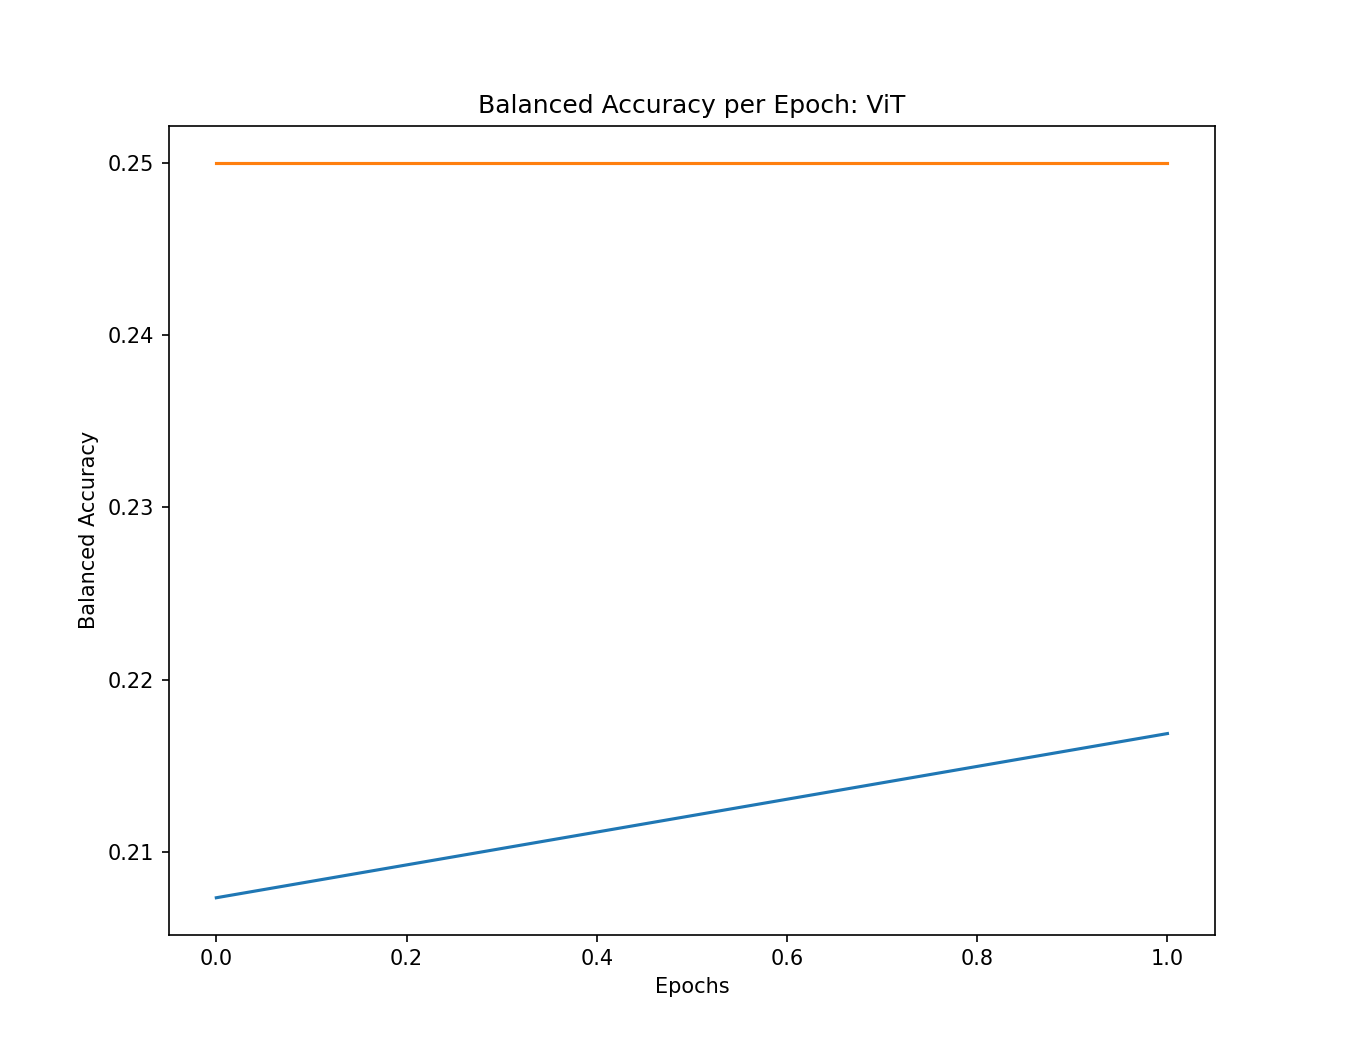
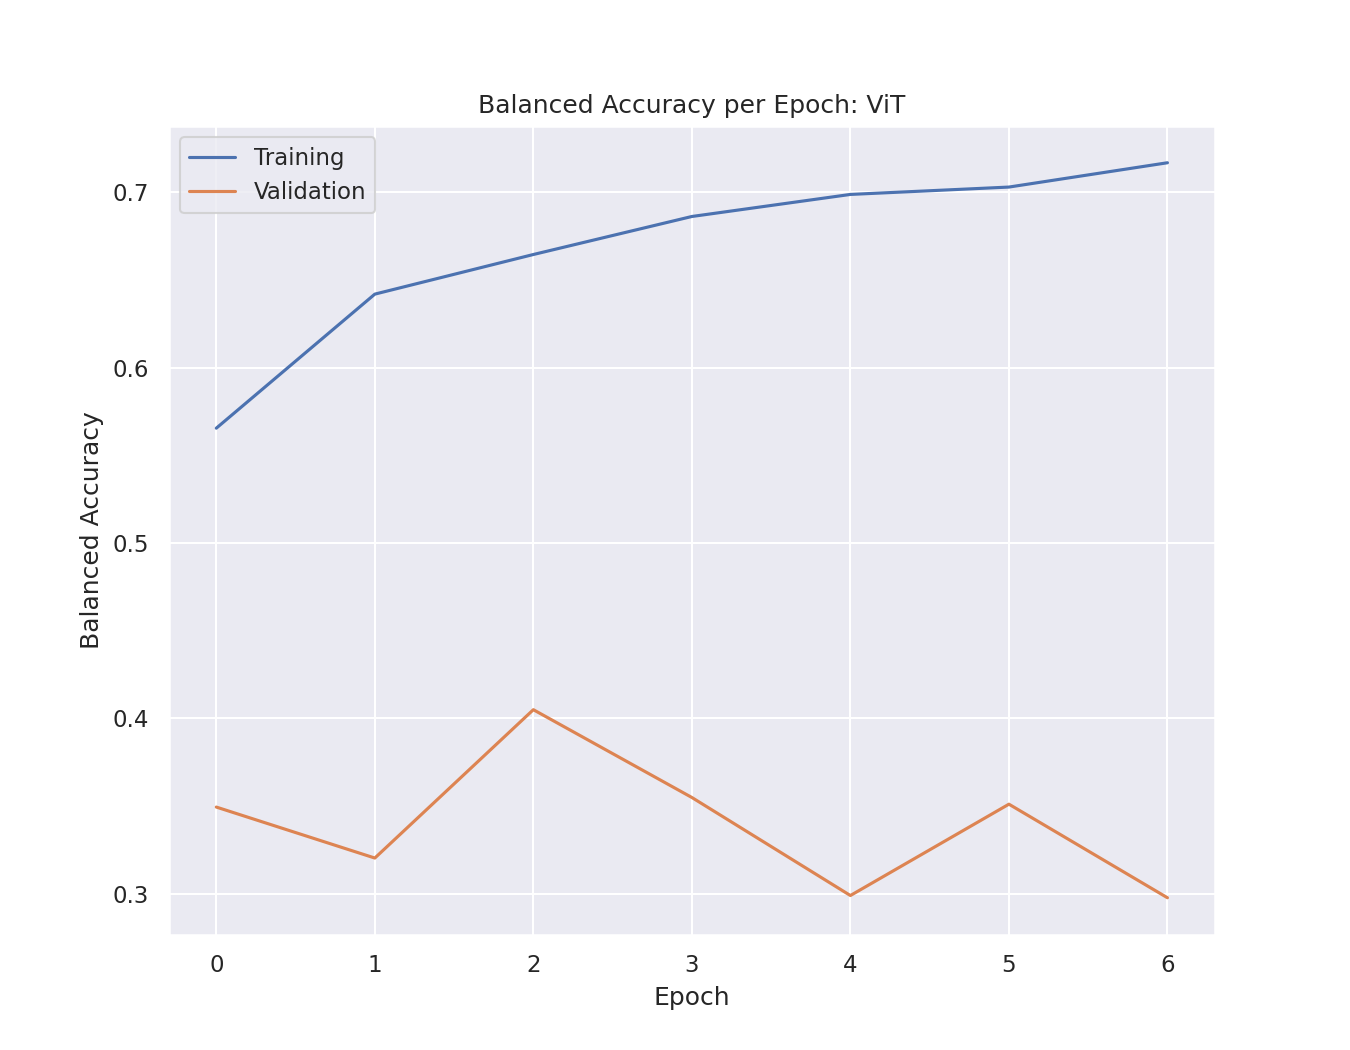
MaxViT progress

diff --git a/src/train.py b/src/train.py
@@ -15,8 +15,8 @@ def load_model(model_name, num_classes, from_path=None, n_layers_to_freeze=1):
             'weight_decay': 0.0001
         }
     elif model_name=="ConvNeXt":
-        num_epochs = 2
-        batch_size = 2
+        num_epochs = 7
+        batch_size = 16
         img_size = 512
         n_layers_to_freeze = 1
         # model = load_convnext_model(num_classes, from_path)
@@ -24,23 +24,23 @@ def load_model(model_name, num_classes, from_path=None, n_layers_to_freeze=1):
         model = timm.create_model('convnextv2_huge.fcmae_ft_in22k_in1k_512', pretrained=True, num_classes=4)
         hyperparameters = {
             'learning_rate': 0.001,
-            'beta1': 0.9,
-            'beta2': 0.999,
-            'weight_decay': 0.1
-        }
-    elif model_name=="ViT":
-        num_epochs = 3
-        batch_size = 16
-        img_size = 512
-        n_layers_to_freeze = 1
-        model = timm.create_model('maxvit_base_tf_512.in21k_ft_in1k', pretrained=True, num_classes=4)
-        # model = load_vit_model(num_classes, from_path)
-        # model = freeze_layers(model, n_layers_to_freeze)
-        hyperparameters = {
-            'learning_rate': 0.001,
-            'beta1': 0.9,
+            'beta1': 0.8,
             'beta2': 0.999,
             'weight_decay': 0.0001
+        }
+    elif model_name=="MaxViT":
+        num_epochs = 7
+        batch_size = 16
+        img_size = 512
+        n_layers_to_freeze = 2
+        model = timm.create_model('maxvit_base_tf_512.in21k_ft_in1k', pretrained=True, num_classes=4)
+        # model = load_vit_model(num_classes, from_path)
+        model = freeze_layers(model, n_layers_to_freeze)
+        hyperparameters = {
+            'learning_rate': 0.0005,
+            'beta1': 0.8,
+            'beta2': 0.999,
+            'weight_decay': 0.006
         }
         
     elif model_name=="Swin":
@@ -169,6 +169,9 @@ def train_model(model, criterion, optimizer, train_loader, val_loader, test_load
         # Track hyperparameters and run metadata
         config={
             "learning_rate": optimizer.param_groups[-1]['lr'],
+            "weight_decay": optimizer.param_groups[-1]['weight_decay'],
+            "beta1": optimizer.param_groups[-1]['betas'][0],
+            "beta2": optimizer.param_groups[-1]['betas'][1],
             "epochs": num_epochs,
             "batch_size:": batch_size,
             "n_augment": n_augment,
@@ -234,6 +237,9 @@ def train_model(model, criterion, optimizer, train_loader, val_loader, test_load
 
         print(f'Train Loss: {train_epoch_loss:.4f}  |  Train ROC AUC: {train_roc_auc:.4f}  |  Train Balanced Accuracy: {train_bal_acc:.4f}')
 
+        conf_mat_train = pd.DataFrame(confusion_matrix(all_train_labels, all_train_preds), index=unique_labels, columns=unique_labels)
+        print('\nConfusion Matrix (Train):\n',conf_mat_train,'\n',sep='')
+
         # Validation
         model.eval()
         running_loss = 0.0
@@ -266,6 +272,9 @@ def train_model(model, criterion, optimizer, train_loader, val_loader, test_load
         val_balanced_accuracy_scores.append(val_bal_acc)
 
         print(f'Validation Loss: {val_epoch_loss:.4f}  |  Validation ROC AUC: {val_roc_auc:.4f}  |  Validation Balanced Accuracy: {val_bal_acc:.4f}')
+
+        conf_mat = pd.DataFrame(confusion_matrix(all_labels, all_preds), index=unique_labels, columns=unique_labels)
+        print('\nConfusion Matrix (Val):\n',conf_mat,'\n',sep='')
 
         wandb.log({"train_loss":train_epoch_loss, "val_loss":val_epoch_loss, "roc_auc_train":train_roc_auc, "roc_auc_val":val_roc_auc, "balanced_accuracy_train":train_bal_acc, "balanced_accuracy_val":val_bal_acc})
     
@@ -477,7 +486,8 @@ def evaluate_model(model, test_loader, device, unique_labels, model_name, save_f
     for metric, value in metrics.items():
         print(f"{metric.capitalize()}: {value:.3f}")
 
-    classification_report(all_labels, all_preds)#, labels=unique_labels)
+    print("unique labels\n",unique_labels)
+    print('\n',classification_report(all_labels, all_preds, target_names=unique_labels),'\n',sep='')
 
     if save_fig is not None:
     
@@ -486,6 +496,7 @@ def evaluate_model(model, test_loader, device, unique_labels, model_name, save_f
         plot_roc_curve(np.eye(len(unique_labels))[all_labels], all_probs, len(unique_labels), unique_labels, save_fig, model_name)
     
     else:
+        
         conf_mat = pd.DataFrame(confusion_matrix(all_labels,all_preds), index=unique_labels, columns=unique_labels)
         print('\nConfusion Matrix:\n',conf_mat,'\n',sep='')
     

diff --git a/src/main.py b/src/main.py
@@ -9,7 +9,7 @@ def fine_tuning(model_name, verbose, device):
     # Read dataset
     df = read_dataset(dataset_path)
 
-    n_augment = 14
+    n_augment = 4
     num_classes = 4
 
     model, hyperparameters, num_epochs, batch_size, img_size, n_layers_to_freeze = load_model(model_name, num_classes)
@@ -26,12 +26,12 @@ def fine_tuning(model_name, verbose, device):
         print("\nInput image shape:",image.shape,"\n")
 
 
-        # summary(model=model, 
-        #     input_size=(batch_size, image.shape[0], image.shape[1], image.shape[2]),
-        #     col_names=["input_size", "output_size", "num_params", "trainable"],
-        #     col_width=20,
-        #     row_settings=["var_names"]
-        # )
+        summary(model=model, 
+            input_size=(batch_size, image.shape[0], image.shape[1], image.shape[2]),
+            col_names=["input_size", "output_size", "num_params", "trainable"],
+            col_width=20,
+            row_settings=["var_names"]
+        )
     
     print(f"\nTRAINING\n")
 

diff --git a/src/hyperparameter_tuning.py b/src/hyperparameter_tuning.py
@@ -13,7 +13,7 @@ def hyperparameter_tuning(model_name, verbose, device, num_trials):
     n_augment_values = [random.randint(0, 14) for _ in range(num_trials)]
     if model_name=="ConvNeXt":
         n_freeze_values = [random.randint(0, 2) for _ in range(num_trials)]
-    elif model_name=="ViT":
+    elif model_name=="MaxViT":
         n_freeze_values = [random.randint(0, 3) for _ in range(num_trials)]
     elif model_name=="Swin":
         n_freeze_values = [random.randint(0, 5) for _ in range(num_trials)]

diff --git a/data/__init__.py b/data/__init__.py
@@ -52,7 +52,7 @@ class RandomNoise:
 
 def read_dataset(dataset_path):
     df = pd.read_csv(dataset_path+'data_csv/train-v2_table_list_slice.csv')
-    # df.drop(df.tail(16500).index, axis=0, inplace=True)
+    df.drop(df.tail(16500).index, axis=0, inplace=True)
     return df
 
 def plot_augmentations(image_path, augment_list, transform, save_path):

diff --git a/src/utils.py b/src/utils.py
@@ -34,7 +34,7 @@ def check_positive(value):
     return ivalue
 
 def parse_arguments():
-    VALID_MODELS = ['Swin', 'ViT', 'ResNet', 'ConvNeXt']
+    VALID_MODELS = ['Swin', 'MaxViT', 'ResNet', 'ConvNeXt']
 
     # Create an ArgumentParser object and define the arguments
     parser = argparse.ArgumentParser()
